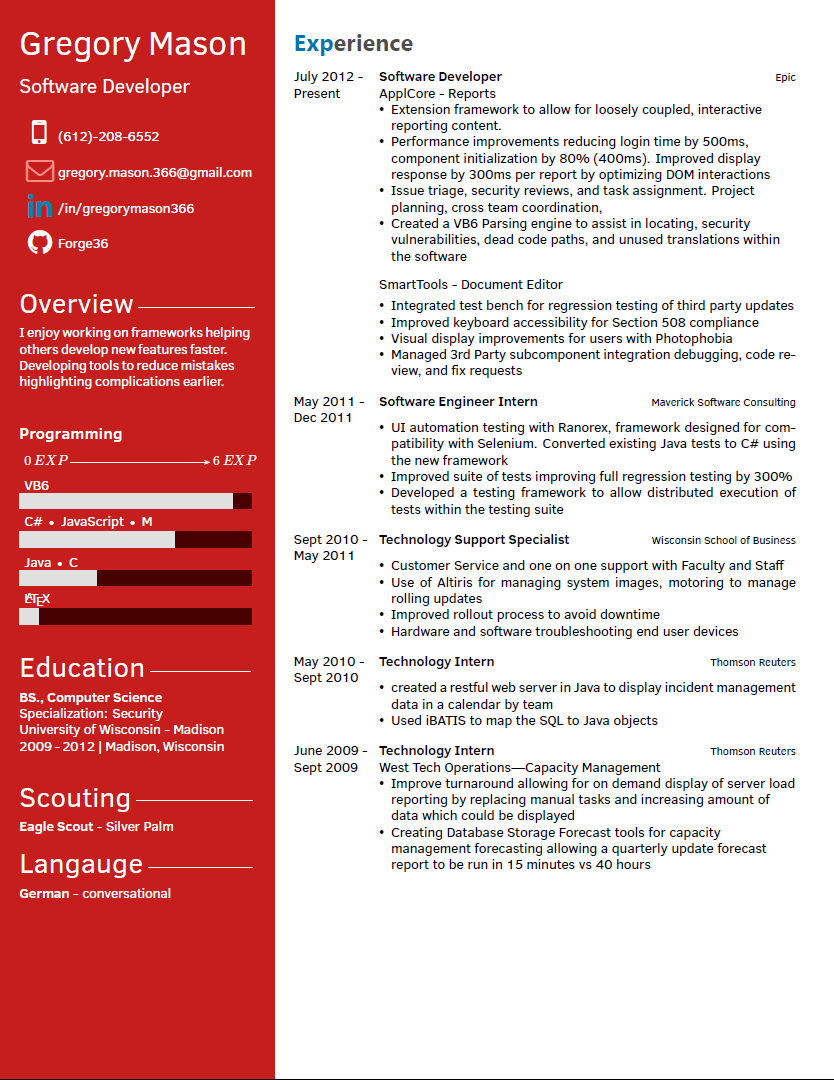
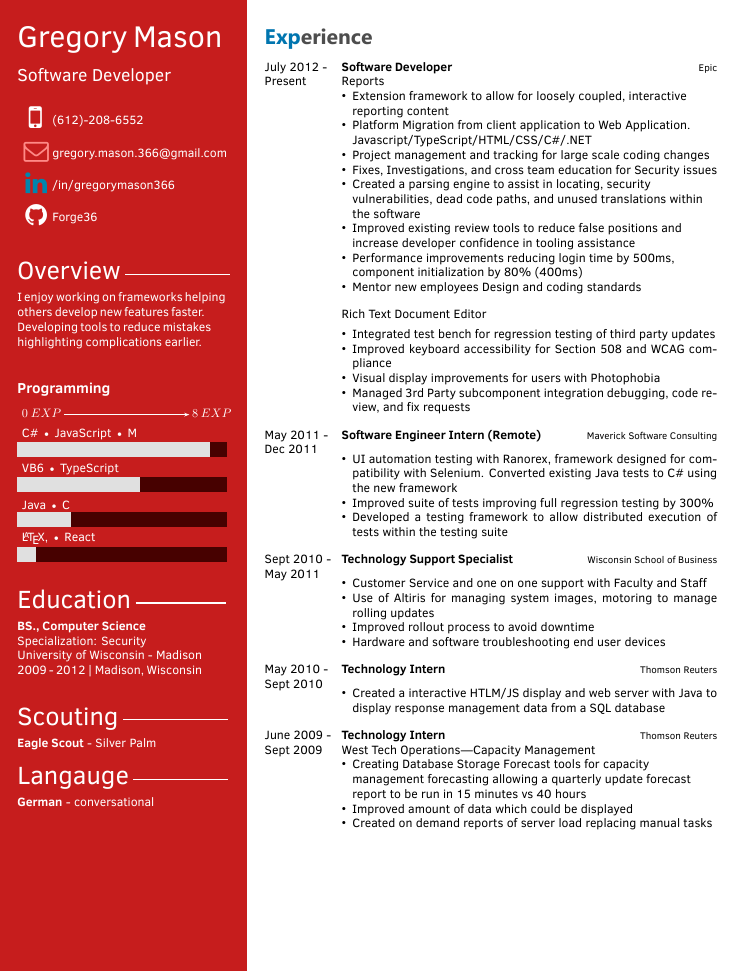
revisions to to reflect changes in experience

diff --git a/template.tex b/template.tex
@@ -29,7 +29,7 @@ Developing tools to reduce mistakes highlighting complications earlier.
 }
 
 % Programming skill bars
-\programming{{\LaTeX / .5}, {Java $\textbullet$ C / 2}, {C\# $\textbullet$ JavaScript $\textbullet$ M / 4}, {VB6 / 5.5}}
+\programming{{{\LaTeX, $\textbullet$ React } / .5}, {Java $\textbullet$ C / 1.5}, {VB6 $\textbullet$ TypeScript / 3.5}, {C\# $\textbullet$ JavaScript $\textbullet$ M / 5.5}}
 
 % Projects text
 \education{
@@ -81,25 +81,26 @@ Specialization: Security \\
 		{Present}
         {Software Developer}
         {\href{https://www.epic.com/}{Epic}}
-        {ApplCore - Reports}
+        { Reports}
         {\begin{itemize}
-   		\item Extension framework to allow for loosely coupled, interactive reporting content.
-   		
-   		\item Performance improvements reducing login time by 500ms, component initialization by 80\% (400ms). Improved display response by 300ms per report by optimizing DOM interactions
-   		
-   		\item Issue triage, security reviews, and task assignment. Project planning, cross team coordination,
-   		
-   		\item Created a VB6 Parsing engine to assist in locating, security vulnerabilities, dead code paths, and unused translations within the software
+   	\item Extension framework to allow for loosely coupled, interactive reporting content
+	\item Platform Migration from client application to Web Application. Javascript/TypeScript/HTML/CSS/C\#/.NET
+	\item Project management and tracking for large scale coding changes
+	\item Fixes, Investigations, and cross team education for Security issues
+	\item Created a parsing engine to assist in locating, security vulnerabilities, dead code paths, and unused translations within the software
+	\item Improved existing review tools to reduce false positions and increase developer confidence in tooling assistance
+	\item Performance improvements reducing login time by 500ms, component initialization by 80\% (400ms) 
+   	\item Mentor new employees Design and coding standards
         \end{itemize}}
 \twentyitem
 {}
 {}
-{ \\ \textnormal{SmartTools - Document Editor}}
+{ \\ \textnormal{Rich Text Document Editor}}
 {}
 {}
 {\begin{itemize}
 \item Integrated test bench for regression testing of third party updates
-\item Improved keyboard accessibility for Section 508 compliance
+\item Improved keyboard accessibility for Section 508 and WCAG compliance
 \item Visual display improvements for users with Photophobia
 \item Managed 3rd Party subcomponent integration debugging, code review, and fix requests
 
@@ -108,7 +109,7 @@ Specialization: Security \\
 	\twentyitem
 		{May 2011 -}
 		{Dec 2011}
-        {Software Engineer Intern}
+        {Software Engineer Intern (Remote)}
         {\href{http://www.mavericksoftware.com/}{Maverick Software Consulting}}
         {}
         {
@@ -144,8 +145,7 @@ Specialization: Security \\
         {}
         {
         \begin{itemize}
-        \item created a restful web server in Java to display incident management data in a calendar by team 
-        \item Used iBATIS to map the SQL to Java objects
+        \item Created a interactive HTLM/JS display and web server with Java to display response management data from a SQL database
         
     \end{itemize}
     	}
@@ -158,8 +158,9 @@ Specialization: Security \\
        {West Tech Operations—Capacity Management}
        {
        	\begin{itemize}
-       		\item Improve turnaround allowing for on demand display of server load reporting by replacing manual tasks and increasing amount of data which could be displayed
-       		\item Creating Database Storage  Forecast tools for capacity management forecasting allowing a quarterly update forecast report to be run in 15 minutes vs 40 hours
+	\item Creating Database Storage Forecast tools for capacity management forecasting allowing a quarterly update forecast report to be run in 15 minutes vs 40 hours
+	\item Improved amount of data which could be displayed
+	\item Created on demand reports of server load replacing manual tasks
        		
        	\end{itemize}
        } 

diff --git a/README.md b/README.md
@@ -33,4 +33,3 @@ WITHOUT WARRANTIES OR CONDITIONS OF ANY KIND, either express or implied.
 See the License for the specific language governing permissions and
 limitations under the License.
 ```
-
